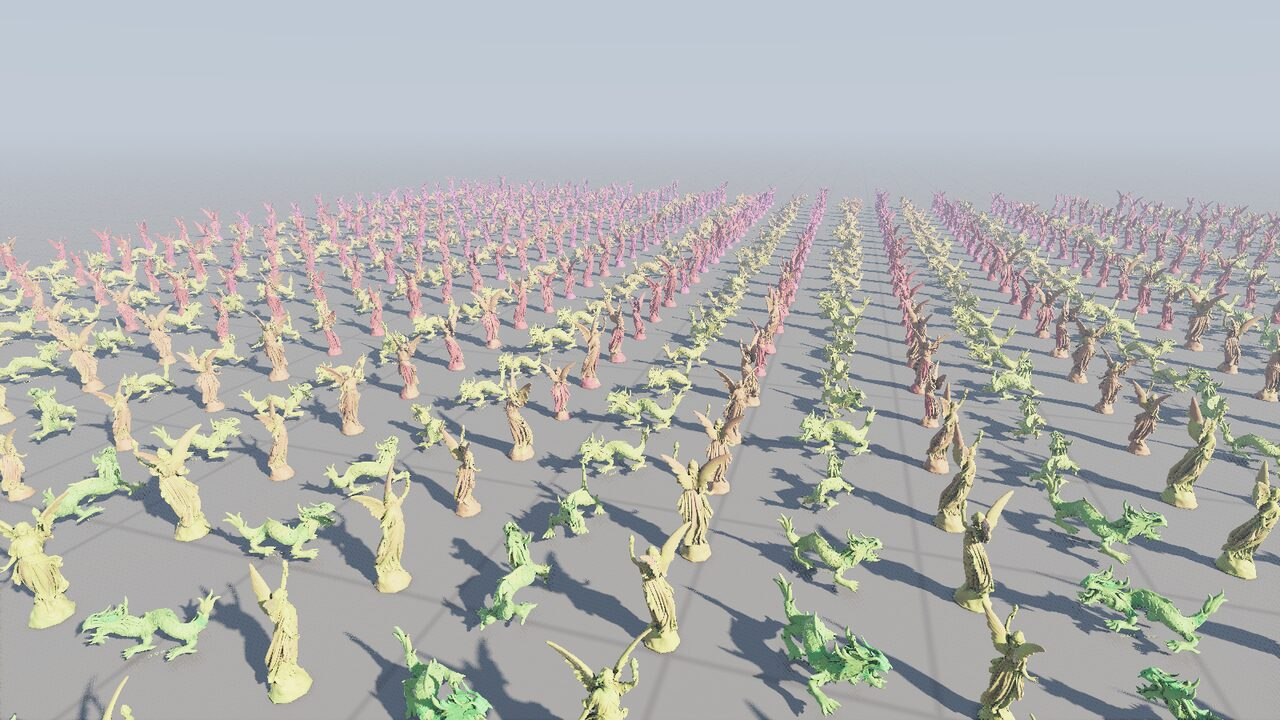
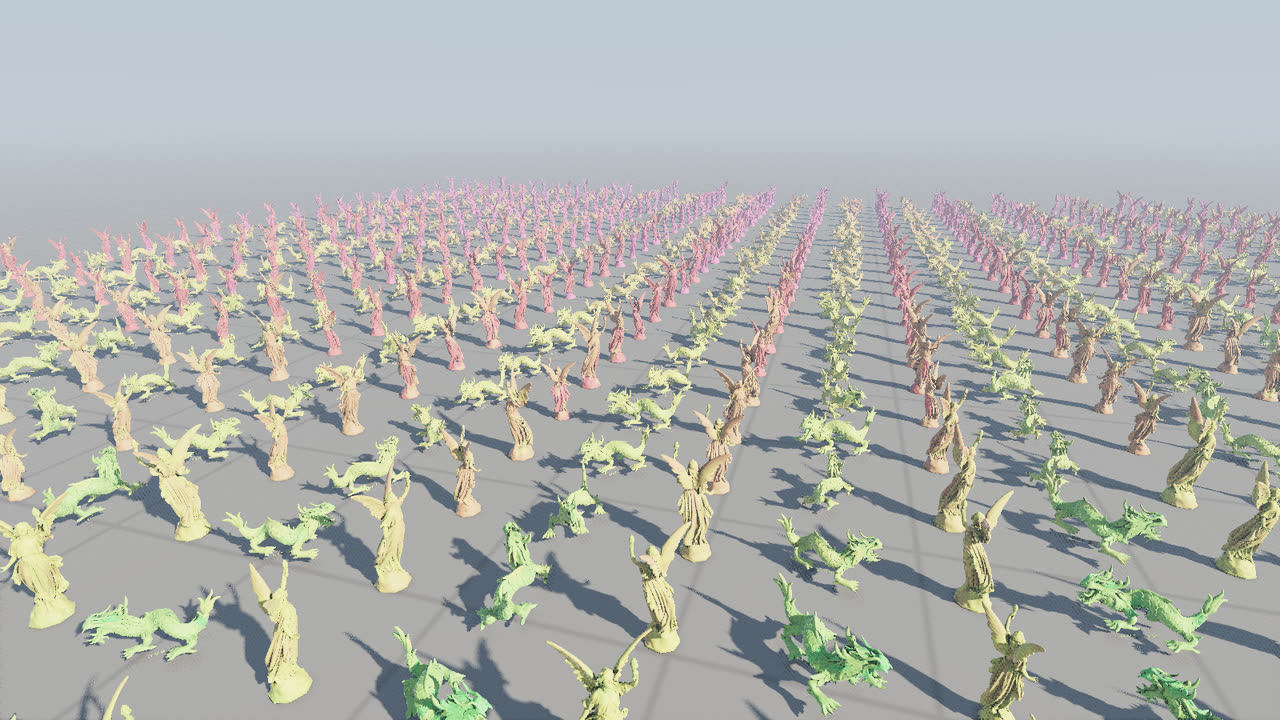
docs: bounce light, and every number again
The readme on the indirect light: the ground bounce, the screen space
bounce between surfaces, their cost (0.17 ms) and their limits
(nothing off screen bounces; ray traced shadows skip it). Every table
is measured again on this build: the crowd 1.45 ms beside lucy, a
million 1.79, the browser 1.38. Images and the fallback gallery
rendered again; web/gallery.sh uses ffmpeg where imagemagick is
missing, which until now skipped the gallery here without a word.

diff --git a/web/index.html b/web/index.html
@@ -92,7 +92,7 @@
   <figure>
     <img src="gallery/crowd.jpg" width="1280" height="720" alt="900 instances of Lucy and the XYZ RGB dragon in sunlight, shadowed by virtual shadow maps">
     <figcaption>900 statues of Lucy and the XYZ RGB dragon: 15.9 billion triangles at full detail, drawn at
-      1920x1080 in 1.33 ms with soft shadows, ambient occlusion and antialiasing. About 4.8 million reach the
+      1920x1080 in 1.45 ms with soft shadows, bounce light, ambient occlusion and antialiasing. About 4.8 million reach the
       screen.</figcaption>
   </figure>
   <figure>

diff --git a/README.md b/README.md
@@ -17,11 +17,12 @@ threshold and the crowd size there to play with.
 ![900 instances of lucy and the xyz rgb dragon in sunlight, shadowed by virtual shadow maps](docs/crowd.png)
 
 900 instances of lucy (28 million triangles) and the xyz rgb dragon (7.2 million): 15.9
-billion triangles at full detail, drawn at 1920x1080 in 1.33 ms on an rx 9070 xt, soft
-shadows, ambient occlusion, weathered stone and bronze, and antialiasing included. about
+billion triangles at full detail, drawn at 1920x1080 in 1.45 ms on an rx 9070 xt, soft
+shadows, bounce light, ambient occlusion, weathered stone and bronze, and antialiasing
+included. about
 4.8 million triangles reach the screen, from about 20 mb of the 427 mb on disk, each
 cluster provably within a pixel of the original. a million instances (17.6 trillion
-triangles) take 1.63 ms, and instances can move and sway.
+triangles) take 1.79 ms, and instances can move and sway.
 
 ## how it works
 
@@ -102,7 +103,18 @@ triangles) take 1.63 ms, and instances can move and sway.
    `--materials bronze`). sky, reflected and rim light are scaled by
    ground-truth ambient occlusion (`ao.comp`, after jimenez and intel's xegtao): half
    resolution, two slices a pixel rotated each frame for taa to average, reading a small
-   depth chain (`ao_depth.comp`) so far taps stay in cache. 0.08 ms; `--no-ao` or g.
+   depth chain (`ao_depth.comp`) so far taps stay in cache; `--no-ao` or g.
+
+   the same pass gathers bounce light, the light arriving from anything but the sun and
+   sky. the ground is the biggest source: it's shaded analytically and isn't in any
+   depth buffer, so four rays down each pixel's cosine lobe land on it, and each takes
+   the ground's light where it lands, in sun or in a statue's shadow (a hard lookup in
+   the shadow maps). nearby surfaces bounce in screen space: each horizon sample that
+   newly hides part of the sky sends, over that part's cosine weight, the light it showed
+   last frame (taa's history, reprojected, its tone curve undone), so bounces add up over
+   frames. sunlit ground warms the statues' shadow sides and light carries into the folds.
+   0.17 ms; `--no-bounce` or b. ray traced shadows (`--shadows rt`) skip it, since the
+   ground's shadows come from the shadow maps.
 6. **shadows: virtual shadow maps** (`vsm.glsl`, `vsm_*.comp`). the sun's depth lives in
    a clipmap around the camera: 14 levels of 32x32 pages of 128x128 texels, the finest
    texel 1/4096 of a unit and each level's twice the last's, backed by a pool of physical
@@ -183,19 +195,19 @@ last transform, and the shadow maps redraw the pages it crossed.
 
 | instances | moving | shadow maps (soft) | ray traced (hard) |
 |---|---|---|---|
-| 900 | none | 1.34 ms | 1.33 ms |
-| 900 | 1% | 1.42 ms | 1.51 ms |
-| 900 | half | 1.80 ms | 1.42 ms |
-| 90,000 | 1% | 1.73 ms | 1.85 ms |
-| 1,000,000 | none | 1.63 ms | 1.73 ms |
-| 1,000,000 | 1% | 1.81 ms | 1.93 ms |
+| 900 | none | 1.47 ms | 1.35 ms |
+| 900 | 1% | 1.55 ms | 1.53 ms |
+| 900 | half | 1.92 ms | 1.64 ms |
+| 90,000 | 1% | 1.81 ms | 1.90 ms |
+| 1,000,000 | none | 1.79 ms | 1.84 ms |
+| 1,000,000 | 1% | 1.95 ms | 2.00 ms |
 
-the crowd view at 1920x1080, ambient occlusion on in both; runs vary by a few
-hundredths. half the crowd moving is where the shadow maps lose: 450 statues redrawn
+the crowd view at 1920x1080, ambient occlusion on in both and bounce light with the shadow
+maps only; runs vary by a few hundredths. half the crowd moving is where the shadow maps lose: 450 statues redrawn
 into their pages every frame. a ray traced refit on radv costs by the size of the whole
 structure (2.7k entries 0.25 ms, 270k 0.94 ms), so still instances get a structure of
 their own. at a million, occlusion culling is what makes it work: without it the view
-draws 103 million triangles in 2.81 ms.
+draws 103 million triangles in 2.91 ms.
 
 `--deforming f` makes a share of them sway like trees in wind: a bend growing with the
 square of the height and a ripple running up it (`deform()` in `common.glsl`), both
@@ -204,8 +216,8 @@ cluster and cuts stay crack-free, and the bend inverts exactly, which antialiasi
 to find where a point was last frame. the guarantee holds too: the bend's slope is at
 most 0.128, a shear stretching lengths by at most 1.066, so errors are scaled by 1.07
 and every culling sphere grows by the farthest a point moves, a tenth of the radius.
-deforming instances share the moving instances' shadow layer: 1% of the crowd costs 1.43
-ms, a tenth 1.55, half 1.86.
+deforming instances share the moving instances' shadow layer: 1% of the crowd costs 1.55
+ms, a tenth 1.65, half 2.07.
 
 ![lucy, each cluster in its own colour](docs/clusters.png)
 
@@ -262,8 +274,8 @@ or push constants:
 
 the models are trimmed to 4 million triangles at their finest (`--max-triangles`): about
 2.6 mb of gzipped metadata each, up front, and about 55 mb of pages, streamed. in chrome
-on the rx 9070 xt at 1600x813, 900 instances take 1.30 ms of gpu time once streaming
-settles, 2.18 ms with the middle moving and swaying, and a million 2.16 ms. it needs 16
+on the rx 9070 xt at 1600x813, 900 instances take 1.38 ms of gpu time once streaming
+settles, 2.16 ms with the middle moving and swaying, and a million 2.06 ms. it needs 16
 storage buffers per shader stage, which desktop gpus allow. `web/build.sh` builds the models;
 `node tests/web_screenshot.mjs` renders the page headless.
 
@@ -293,7 +305,7 @@ models/fetch.sh            # downloads lucy and the dragon (380 mb) and builds b
 | [ and ] | halve or double the error threshold (1 pixel) |
 | f | freeze culling, then fly out and watch it |
 | c v o r h x | cone culling, frustum culling, occlusion, compute rasterizer, shadows, antialiasing |
-| j g | soft shadows, ambient occlusion |
+| j g b | soft shadows, ambient occlusion, bounce light |
 | t, p | wireframe; print the camera as a `--camera` argument |
 
 `--headless --frames n --screenshot out.png` renders without a window and prints the
@@ -325,20 +337,21 @@ streaming. shading includes shadows and antialiasing.
 
 | camera | frame | culling | raster | pass 2 | shadow pages | shading | triangles |
 |---|---|---|---|---|---|---|---|
-| beside lucy (top image) | 1.33 ms | 0.16 | 0.28 | 0.10 | 0.08 | 0.70 | 4.77m |
-| raised (lod image) | 1.56 ms | 0.11 | 0.39 | 0.09 | 0.09 | 0.88 | 7.44m |
-| ground level | 1.24 ms | 0.15 | 0.23 | 0.12 | 0.08 | 0.67 | 3.85m |
+| beside lucy (top image) | 1.45 ms | 0.16 | 0.27 | 0.10 | 0.07 | 0.86 | 4.77m |
+| raised (lod image) | 1.65 ms | 0.11 | 0.37 | 0.09 | 0.08 | 1.00 | 7.44m |
+| ground level | 1.35 ms | 0.14 | 0.22 | 0.11 | 0.07 | 0.80 | 3.92m |
 
-plain materials: 1.08, 1.27 and 1.02 ms; hard shadows: 1.25, 1.43 and 1.17; no ambient
-occlusion: 1.25, 1.48 and 1.16; no shadows: 1.12, 1.26 and 1.03; ray traced (hard):
-1.32, 1.57 and 1.24; no antialiasing: 1.27, 1.50 and 1.17. the compute rasterizer saves
-0.21 to 0.37 ms. occlusion culling removes 54% of the triangles at ground level (1.42 to
-1.24 ms) and next to nothing from the raised camera, which sees over the crowd.
+no bounce light: 1.28, 1.51 and 1.20 ms; plain materials: 1.23, 1.39 and 1.15; hard
+shadows: 1.38, 1.54 and 1.28; no ambient occlusion (nor bounce light): 1.20, 1.41 and
+1.11; no shadows: 1.15, 1.28 and 1.06; ray traced (hard, no bounce light): 1.34, 1.58 and
+1.25; no antialiasing: 1.33, 1.53 and 1.23. the compute rasterizer saves 0.28 to 0.39
+ms. occlusion culling removes 53% of the triangles at ground level (1.52 to 1.35 ms) and
+next to nothing from the raised camera, which sees over the crowd.
 
 the triangle counts have climbed as the errors got honest: 0.86 million beside lucy
 when errors were quadric estimates, 2.99 million once measured by samples, 4.77 million
 now that both the error and its projection are proven. a threshold of two pixels
-(`--threshold 2`, or ]) draws 2.34 million in 1.21 ms, about the old picture. the commit
+(`--threshold 2`, or ]) draws 2.34 million in 1.35 ms, about the old picture. the commit
 messages have every step's numbers.
 
 ## limitations
@@ -354,7 +367,8 @@ messages have every step's numbers.
   and a page that finds the pool full falls back a level.
 * materials are procedural, chosen per instance: there are no texture maps, since the
   scans have no uvs.
-* there is no global illumination beyond ambient occlusion and the sky.
+* bounce light is one bounce off the ground plus what's on screen: a surface off screen or
+  behind another bounces nothing, and light from the statues doesn't reach the ground.
 
 ## models
 
